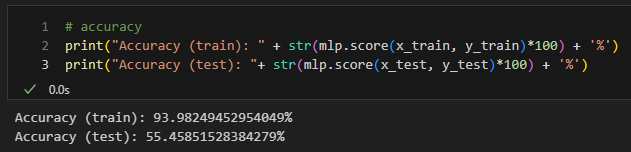
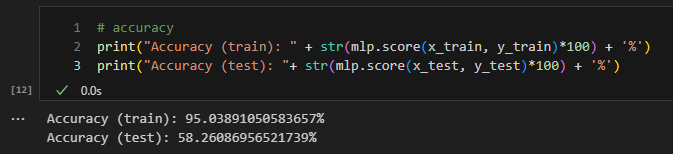
spr2

diff --git a/program2/sprawozdanie2.md b/program2/sprawozdanie2.md
@@ -28,10 +28,10 @@
       Parametry: $\\$
       ![](parametryWino.png) $\\$
       Skuteczność: $\\$
-      ![](skutecznośćWino1.png) $\\$
+      ![](skutecznośćWino0.png) $\\$
       Macierz pomyłek: $\\$
       ![](macierzPomyłekWino.png)$\\$
 4. Wnioski
    - Perceptron wielowarstwowy wykazał się doskonałą zdolnością przewidywania zbioru danych Iris. Jego dokładność była prawie 100% dla zbioru treningowego i osiągnęła 100% dla zbioru testowego. Ten zbiór danych, ze względu na swoją złożoność, był najłatwiejszy do nauczenia się.
    - W przypadku zbioru danych MNIST, perceptron wielowarstwowy radził sobie również bardzo dobrze, uzyskując wynik 100% na zbiorze treningowym, a skuteczność na zbiorze testowym wyniosła 94,72%, co jest satysfakcjonującym rezultatem. Jednak czas nauki na tym zbiorze danych był znacznie dłuższy niż w przypadku zbioru danych Iris.
-   - Dla zbioru danych z kaggle, skuteczność wyniosła 54%. Jest to skomplikowany zbiór danych, na którym obliczenia trwają bardzo długo.
+   - Dla zbioru danych z kaggle, skuteczność wyniosła 70%. Jest to skomplikowany zbiór danych, na którym obliczenia trwają bardzo długo.
